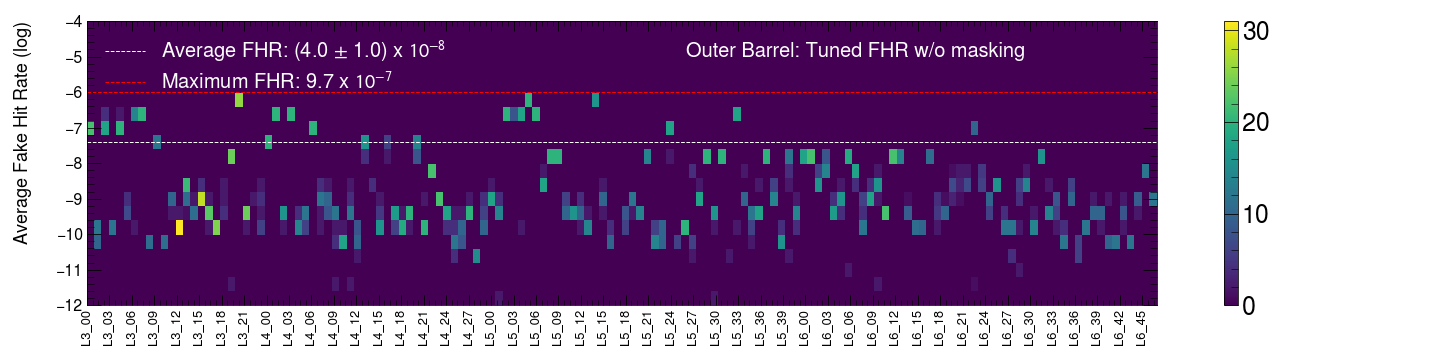
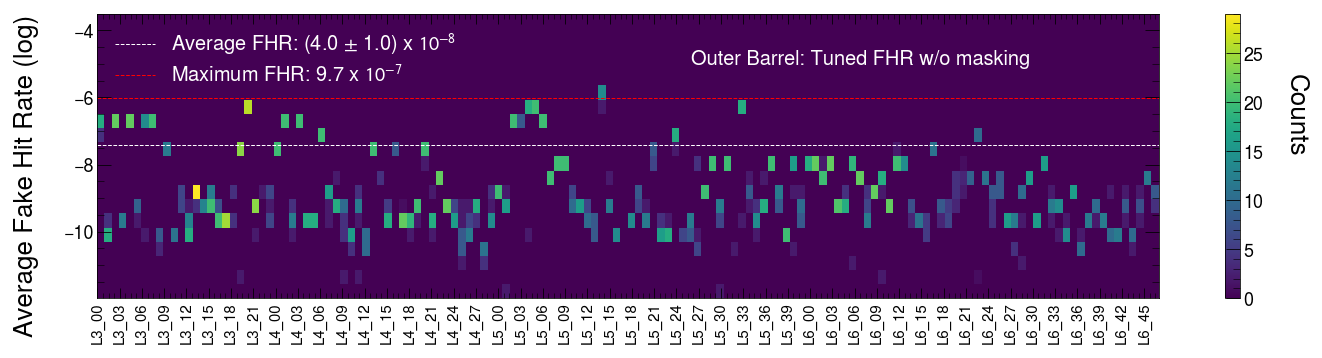
Summary plots beautifications

diff --git a/summary_plots/2D_fhr_summary_plot.py b/summary_plots/2D_fhr_summary_plot.py
@@ -53,14 +53,14 @@ for test,output in zip(test_type, output_string):
     std = np.std(fhr_array)
     print("Average:", mean, " RMS: ", std)
     # lim_sup = -4 if test=="tuned_fhr" else -10
-    lim_sup=-4
+    lim_sup=-3.5
 
     h = Hist(
         hist.axis.Regular(
             len(staves), 0, len(staves)-1, name="", label="", underflow=False, overflow=False
         ),
         hist.axis.Regular(
-            20, -12, lim_sup, name="Average Fake Hit Rate", label="", underflow=False, overflow=False
+            20, -11.99, lim_sup, name="Average Fake Hit Rate", label="", underflow=False, overflow=False
         ),
     )
 
@@ -82,12 +82,15 @@ for test,output in zip(test_type, output_string):
     mesh = ax.pcolormesh(x, y, w.T, cmap = 'viridis', rasterized=True)
     ax.set_xticks(range(len(staves)))
     ax.set_xticklabels(staves)
-    ax.set_xticklabels(staves, rotation='vertical', fontsize=13)
-    ax.set_ylabel('Average Fake Hit Rate (log)', fontsize=18)
+    ax.set_xticklabels(staves, rotation='vertical', fontsize=15)
+    ax.set_ylabel('Average Fake Hit Rate (log)', fontsize=26)
     loc = plticker.MultipleLocator(base=3.0) # this locator puts ticks at regular intervals
     ax.xaxis.set_major_locator(loc)
-    ax.tick_params(axis='y', which='major', labelsize=16)
-    fig.colorbar(mesh)
+    ax.tick_params(axis='y', which='major', labelsize=18)
+    bar = fig.colorbar(mesh)
+    bar.set_label("Counts", fontsize=26, rotation=270, labelpad=45, y=0.5)
+    bar.ax.tick_params(labelsize=18)
+    
     # text_sup = -5 if test=="tuned_fhr" else -10.2
     # text_inf = text_sup - 0.7 if test=="tuned_fhr" else text_sup - 0.2
     text_sup = -5
@@ -117,24 +120,7 @@ for test,output in zip(test_type, output_string):
     plt.xlim((0, np.max(stave_array)-0.5))
     # plt.ylim((-12, -4))
     plt.tight_layout()
-    plt.savefig(f'2D_{test}.png')
-    plt.savefig(f'2D_{test}.pdf', bbox_inches='tight')
+    plt.savefig(f'2D_{test}.png', bbox_inches = 'tight',
+    pad_inches = 0.2)
+    plt.savefig(f'2D_{test}.pdf', bbox_inches='tight', pad_inches = 0.2)
 
-
-
-    # plt.figure()
-    # fig, ax = plt.subplots(figsize=(12, 12))
-    # if test != "tuned_fhr":
-    #     ax.xaxis.set_major_formatter(FormatStrFormatter('%.2f'))
-    # mplhep.histplot(h_distr, ax=ax, yerr=False,histtype="fill", alpha=0.5, color="red")
-    # mplhep.histplot(h_distr, ax=ax, yerr=False, histtype="step", alpha=1, linestyle = "--", color="red", linewidth=3)
-    # text_x = -8.5 if test=="tuned_fhr" else -10.885
-    # text_y = 20 if test=="tuned_fhr" else 30
-    # ax.text(text_x, text_y, f'Outer Barrel: {output}', color="red", fontsize=20, fontweight="bold")
-    # ax.text(text_x, text_y - 1, f'Average FHR : {np.round(mean, 12)}', color="red", fontsize=20, fontweight="bold")
-    # plt.xlabel("Average FHR (log)")
-    # plt.ylabel("Counts")
-    # plt.tight_layout()
-    # plt.savefig(f'distr_{test}.png')
-    # plt.savefig(f'distr_{test}.pdf')
-    # plt.close()
